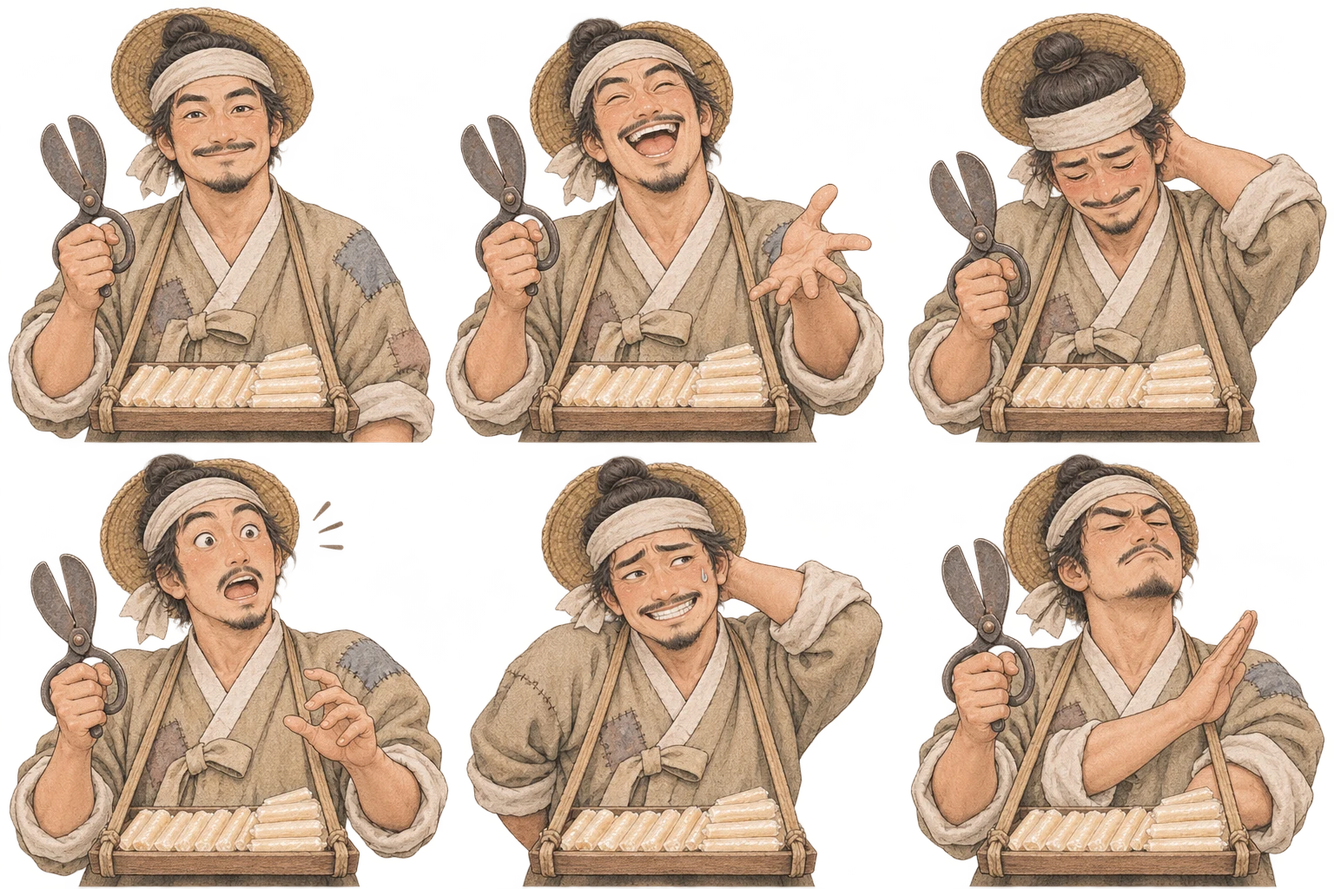
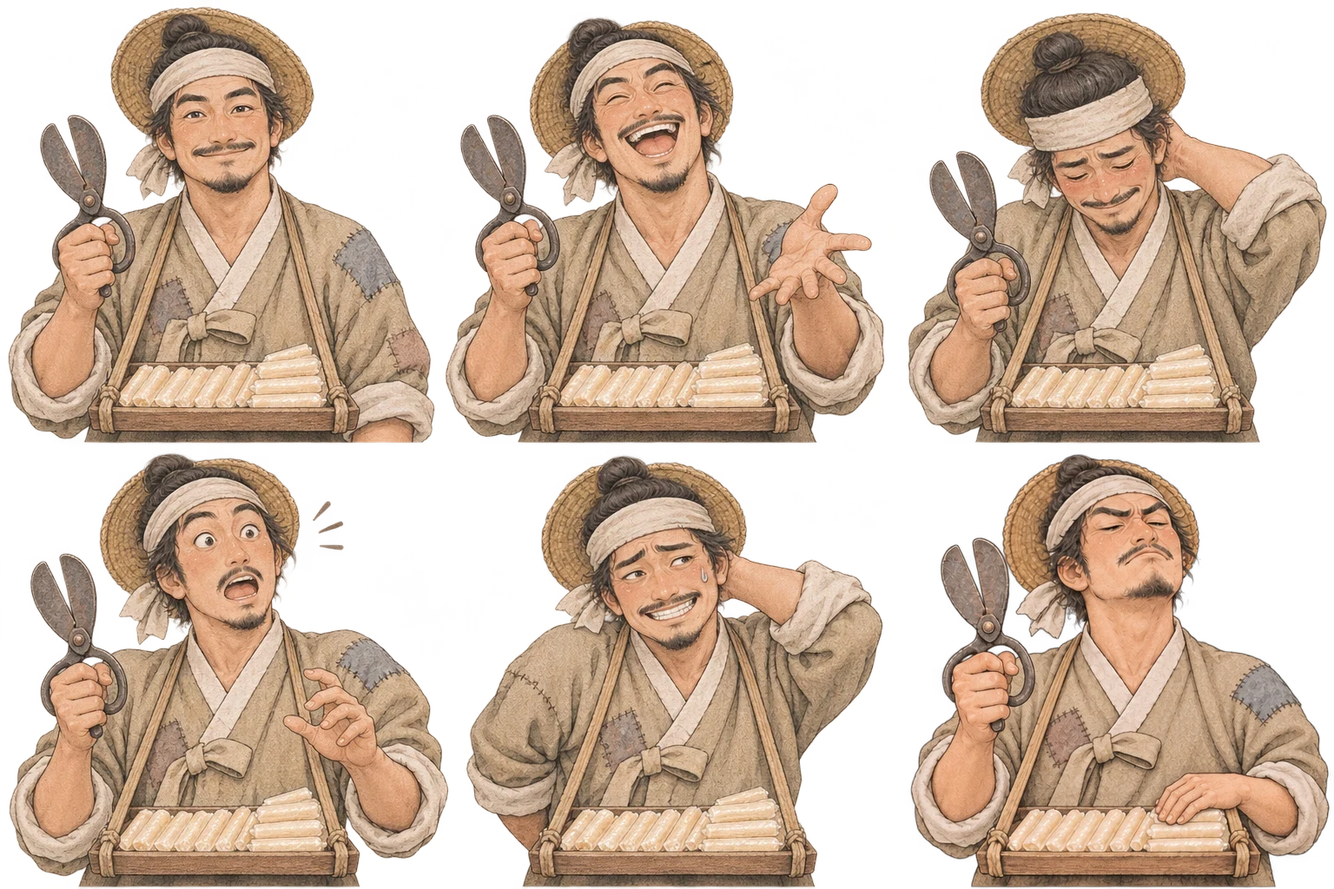
Fix Gawi stern sprite arms and encrypt teacher answer guides

Changed region(s): [[0.6875, 0.5, 1.0, 1.0]]

diff --git a/assets/review.js b/assets/review.js
@@ -4,17 +4,23 @@ const $=s=>document.querySelector(s),esc=s=>String(s??'').replace(/[&<>"']/g,c=>
 let C,backgrounds=[],mood=0,loading=false,notes=[],active='art';const cache=new Map(),noteKey='ddeokip-art-review-notes-v1';
 try{notes=JSON.parse(localStorage.getItem(noteKey)||'[]');if(!Array.isArray(notes))notes=[];}catch{notes=[];}
 const status=(s,error=false)=>{$('#status').textContent=s;$('#status').classList.toggle('error',error);};
-const art=id=>`assets/art/${id}.webp`,charfile=id=>C.art?.[id]||id;
+const art=id=>`assets/art/${id}.webp${id==='gawi'?'?v=20261112-arms':''}`,charfile=id=>C.art?.[id]||id;
 function tab(id){active=id;document.querySelectorAll('.panel').forEach(p=>p.hidden=p.id!==id);document.querySelectorAll('[data-tab]').forEach(b=>b.setAttribute('aria-pressed',String(b.dataset.tab===id)));if(id==='notes')renderNotes();}
 function fileLink(file,label='원본 크게 보기 ↗'){return `<a target="_blank" rel="noopener" href="${art(file)}">${label}</a>`;}
 function collect(){const map=new Map();const add=(id,name)=>{if(id&&!map.has(id))map.set(id,name||id);};(C.places||[]).forEach(p=>add(p.art,p.name));add(C.court||'court','법정');add(C.landing?.backdrop,'첫 화면 배경');add(C.end?.backdrop,'결말 배경');C.stages.forEach(s=>{add(s.backdrop);[...(s.lines||[]),...(s.after||[])].forEach(l=>add(l.backdrop));});return [...map].map(([id,name])=>({id,name}));}
 function gallery(){const q=$('#search').value.trim().toLowerCase();const matches=s=>s.toLowerCase().includes(q);$('#characters').innerHTML=C.portraits.filter(id=>matches(C.chars[id]+' '+charfile(id))).map(id=>`<article class="card"><button data-character="${esc(id)}" aria-label="${esc(C.chars[id])} 표정 확대"><img loading="lazy" src="${art(charfile(id))}" alt="${esc(C.chars[id])} 여섯 표정 원본"><span class="caption"><b>${esc(C.chars[id])}</b><small>${esc(charfile(id))}.webp${C.flip?.includes(id)?' · 게임에서 좌우 반전':''}</small></span></button>${fileLink(charfile(id))}</article>`).join('')||'<p class="empty">검색 결과가 없습니다.</p>';
 $('#backgrounds').innerHTML=backgrounds.filter(b=>matches(b.name+' '+b.id)).map(b=>`<article class="card"><button data-background="${esc(b.id)}" aria-label="${esc(b.name)} 배경 선택"><img loading="lazy" src="${art(b.id)}" alt="${esc(b.name)}"><span class="caption"><b>${esc(b.name)}</b><small>${esc(b.id)}.webp</small></span></button>${fileLink(b.id)}</article>`).join('')||'<p class="empty">검색 결과가 없습니다.</p>';}
 function scene(){const id=$('#character').value,bg=$('#background').value,flip=C.flip?.includes(id);$('#backdrop').src=art(bg);$('#backdrop').alt=backgrounds.find(b=>b.id===bg)?.name||bg;$('#stage').dataset.surface=$('#surface').value;$('#portrait').style.height=$('#scale').value+'%';$('#portrait').innerHTML=`<svg viewBox="0 0 512 512" role="img" aria-label="${esc(C.chars[id])} ${moods[mood]}"><g${flip?' transform="translate(512 0) scale(-1 1)"':''}><image href="${art(charfile(id))}" x="${-(mood%3)*512}" y="${-Math.floor(mood/3)*512}" width="1536" height="1024" preserveAspectRatio="none"/></g></svg>`;$('#sceneLabel').textContent=`${C.chars[id]} · ${moods[mood]}${flip?' · 좌우 반전':''}`;$('#fileinfo').textContent=`${charfile(id)}.webp / ${moods[mood]} (${mood<3?'윗줄':'아랫줄'} ${mood%3+1}번째) · 배경 ${bg}.webp`;$('#original').href=art(charfile(id));$('#bgOriginal').href=art(bg);$('#flipnote').textContent=flip?'이 인물은 게임 설정에 따라 원본을 좌우로 뒤집어 표시합니다.':'게임에서 사용하는 표정 순서로 분할했습니다.';$('#moods').innerHTML=moods.map((s,i)=>`<button data-mood="${i}" aria-pressed="${i===mood}">${i+1}. ${s}</button>`).join('');}
-function solution(){const box=document.createElement('div');box.innerHTML=C.guide||'';const details=box.querySelector('.teacher-spoilers');let html='';if(details){details.querySelector('summary')?.remove();html=details.innerHTML;}else{html='<h3>심문 정답</h3><ol>'+Object.values(C.witnesses||{}).map(w=>{const s=w.solve||{},parts=[];if(s.pair)parts.push(`증언 ${s.pair.map(i=>i+1).join(' · ')} 맞대기`);if(s.evidence)parts.push(`증언 ${(s.statements||[]).map(i=>i+1).join(' 또는 ')} + ${[].concat(s.evidence).map(k=>C.evidence[k]?.name||k).join(' 또는 ')}`);if(s.point)parts.push('그림에서 '+(s.point.spots.find(p=>p[0]===s.point.answer)?.[1]||s.point.answer)+' 선택');return `<li><b>${esc(w.title||C.chars[w.who])}</b><br>${esc(parts.join(' / '))}</li>`;}).join('')+'</ol>';const picks=C.stages.filter(s=>s.type==='pick');for(const s of picks){html+=`<h3>${esc(s.title||s.chapter)}</h3><p>${esc((s.options||[]).filter((o,i)=>s.check?s.check(i)===true:i===s.answer).map(o=>o.text||o).join(' / ')||'교사 안내와 증거를 함께 확인하세요.')}</p>`;}html+='<p>책임 저울과 판관 일기는 한 가지 정답을 고르는 단계가 아닙니다.</p>';}
-$('#solutions').innerHTML=`<h3>제${C.n}화 · ${esc(C.title)}</h3>${html}`;$('#guide').innerHTML=C.guide||'';}
+let teacherData=null,unlockGeneration=0;
+function solution(){const entry=teacherData?.[C?.n];$('#answerGate').hidden=!!entry;$('#answerContent').hidden=!entry;$('#solutions').innerHTML=entry?.solution||'';$('#guide').innerHTML=entry?.guide||'';$('#downloadAnswers').disabled=!entry;}
+function lockAnswers(){teacherData=null;unlockGeneration++;$('#teacherPassword').value='';$('#unlockStatus').textContent='';$('#guideDetails').open=false;solution();}
+async function unlockAnswers(event){event.preventDefault();const generation=++unlockGeneration,button=$('#unlockAnswers');let password=$('#teacherPassword').value;if(!password)return;button.disabled=true;$('#unlockStatus').textContent='정답 파일을 여는 중입니다…';
+try{const response=await fetch('assets/teacher-answers.enc.json?v=20261112-2',{cache:'no-store'});if(!response.ok)throw Error('load');const pack=await response.json();const bytes=s=>Uint8Array.from(atob(s),c=>c.charCodeAt(0));const keyMaterial=await crypto.subtle.importKey('raw',new TextEncoder().encode(password),'PBKDF2',false,['deriveKey']);password='';const key=await crypto.subtle.deriveKey({name:'PBKDF2',salt:bytes(pack.salt),iterations:pack.iterations,hash:'SHA-256'},keyMaterial,{name:'AES-GCM',length:256},false,['decrypt']);const plaintext=await crypto.subtle.decrypt({name:'AES-GCM',iv:bytes(pack.iv)},key,bytes(pack.data));const data=JSON.parse(new TextDecoder().decode(plaintext));if(generation!==unlockGeneration)return;teacherData=data;$('#teacherPassword').value='';$('#unlockStatus').textContent='';solution();status('교사용 정답을 열었습니다. 사용 후 다시 잠가 주세요.');
+}catch(error){if(generation===unlockGeneration){$('#unlockStatus').textContent=error.name==='OperationError'?'비밀번호가 맞지 않습니다. 다시 입력해 주세요.':'정답 파일을 열지 못했습니다. 인터넷 연결과 브라우저를 확인해 주세요.';$('#teacherPassword').value='';$('#teacherPassword').focus();}}
+finally{password='';button.disabled=false;}}
+$('#answerGate').addEventListener('submit',unlockAnswers);$('#lockAnswers').addEventListener('click',lockAnswers);window.addEventListener('pagehide',lockAnswers);
 function evidence(){const out=[];for(const [id,e]of Object.entries(C.evidence||{})){let view='';try{view=typeof e.view==='function'?e.view():`<p>${esc(e.short||e.desc||'')}</p>`;}catch{view='<p>이 증거는 게임 화면에서 확인해 주세요.</p>'; }out.push(`<article class="evidencecard"><h3>${esc(e.name||id)}</h3><p class="muted">증거 ID: ${esc(id)} · 코드로 그린 도표는 별도 이미지 파일이 아닙니다.</p>${view}<button data-evidence="${esc(id)}">증거 정보 복사</button></article>`);}$('#evidenceCards').innerHTML=out.join('');}
-async function selectEpisode(n){if(loading)return;loading=true;$('#episode').disabled=true;status('그림 목록을 불러오는 중입니다…');try{if(!cache.has(n)){await new Promise((resolve,reject)=>{const s=document.createElement('script');s.src=`episodes/ep${String(n).padStart(2,'0')}.js`;s.onload=()=>{cache.set(n,window.CASE);s.remove();resolve();};s.onerror=()=>{s.remove();reject(Error('시나리오 파일을 불러오지 못했습니다. 새로고침해 주세요.'));};document.head.append(s);});}C=cache.get(n);backgrounds=collect();mood=0;$('#character').innerHTML=C.portraits.map(id=>`<option value="${esc(id)}">${esc(C.chars[id])}</option>`).join('');$('#background').innerHTML=backgrounds.map(b=>`<option value="${esc(b.id)}">${esc(b.name)} · ${esc(b.id)}</option>`).join('');$('#background').value=C.court||backgrounds[0].id;$('#artTitle').textContent=`제${n}화 · ${C.title}`;$('#search').value='';$('#memo').value='';gallery();scene();solution();evidence();status(`인물 ${C.portraits.length}명 · 배경 ${backgrounds.length}장 · 여섯 표정 확인 가능`);history.replaceState(null,'','#episode='+n);}catch(e){status(e.message,true);}finally{loading=false;$('#episode').disabled=false;}}
+async function selectEpisode(n){if(loading)return;loading=true;$('#episode').disabled=true;status('그림 목록을 불러오는 중입니다…');try{if(!cache.has(n)){await new Promise((resolve,reject)=>{const s=document.createElement('script');s.src=`episodes/ep${String(n).padStart(2,'0')}.js?v=20261112-protected`;s.onload=()=>{cache.set(n,window.CASE);s.remove();resolve();};s.onerror=()=>{s.remove();reject(Error('시나리오 파일을 불러오지 못했습니다. 새로고침해 주세요.'));};document.head.append(s);});}C=cache.get(n);backgrounds=collect();mood=0;$('#character').innerHTML=C.portraits.map(id=>`<option value="${esc(id)}">${esc(C.chars[id])}</option>`).join('');$('#background').innerHTML=backgrounds.map(b=>`<option value="${esc(b.id)}">${esc(b.name)} · ${esc(b.id)}</option>`).join('');$('#background').value=C.court||backgrounds[0].id;$('#artTitle').textContent=`제${n}화 · ${C.title}`;$('#search').value='';$('#memo').value='';gallery();scene();solution();evidence();status(`인물 ${C.portraits.length}명 · 배경 ${backgrounds.length}장 · 여섯 표정 확인 가능`);history.replaceState(null,'','#episode='+n);}catch(e){status(e.message,true);}finally{loading=false;$('#episode').disabled=false;}}
 function ref(){return `제${C.n}화 ${C.title}\n인물: ${C.chars[$('#character').value]}\n파일: assets/art/${charfile($('#character').value)}.webp\n표정: ${moods[mood]} (${mood<3?'윗줄':'아랫줄'} ${mood%3+1}번째)${C.flip?.includes($('#character').value)?' / 게임에서 좌우 반전':''}\n배경: assets/art/${$('#background').value}.webp`;}
 async function copy(s){try{await navigator.clipboard.writeText(s);status('복사했습니다. 대화창에 붙여 넣어 주세요.');}catch{const t=document.createElement('textarea');t.value=s;document.body.append(t);t.select();const ok=document.execCommand('copy');t.remove();if(ok)status('복사했습니다.');else{download(s,'검수정보.txt');status('복사를 사용할 수 없어 텍스트 파일로 저장했습니다.');}}}
 function download(s,name,type='text/plain;charset=utf-8'){const u=URL.createObjectURL(new Blob([s],{type})),a=document.createElement('a');a.href=u;a.download=name;a.click();setTimeout(()=>URL.revokeObjectURL(u),1000);}
@@ -23,6 +29,7 @@ function renderNotes(){$('#noteCount').textContent=notes.length;$('#noteList').i
 const notesText=()=>notes.map((n,i)=>`[${i+1}] ${n.ref}\n수정 요청: ${n.text}`).join('\n\n');
 async function png(){const button=$('#png');button.disabled=true;try{const load=src=>new Promise((resolve,reject)=>{const i=new Image();i.onload=()=>resolve(i);i.onerror=()=>reject(Error('그림을 불러오지 못했습니다.'));i.src=src;});const id=$('#character').value,bg=$('#background').value,surface=$('#surface').value;const images=await Promise.all([load(art(charfile(id))),surface==='scene'?load(art(bg)):Promise.resolve(null)]);const c=document.createElement('canvas');c.width=1672;c.height=941;const x=c.getContext('2d');x.fillStyle=surface==='dark'?'#172720':'#fff';x.fillRect(0,0,c.width,c.height);if(surface==='check'){for(let y=0;y<941;y+=24)for(let a=0;a<1672;a+=24){x.fillStyle=((y/24+a/24)%2)?'#d5dbd4':'#fff';x.fillRect(a,y,24,24);}}if(images[1]){const im=images[1],r=Math.max(1672/im.width,941/im.height),w=im.width*r,h=im.height*r;x.drawImage(im,(1672-w)/2,(941-h)/2,w,h);}const im=images[0],size=941*Number($('#scale').value)/100;x.save();x.translate(836,941-size);if(C.flip?.includes(id))x.scale(-1,1);x.drawImage(im,(mood%3)*im.width/3,Math.floor(mood/3)*im.height/2,im.width/3,im.height/2,-size/2,0,size,size);x.restore();const blob=await new Promise(resolve=>c.toBlob(resolve,'image/png'));if(!blob)throw Error('PNG 저장에 실패했습니다.');download(blob,`검수_${C.n}화_${charfile(id)}_${keys[mood]}_${bg}.png`,'image/png');status('조합 그림을 PNG로 저장했습니다. 실제 게임 화면 캡처는 아닙니다.');}catch(e){status(e.message,true);}finally{button.disabled=false;}}
 $('#episode').innerHTML=(window.SERIES||[]).map(e=>`<option value="${e.n}">${e.n}화 · ${esc(e.classic)} — ${esc(e.title)}</option>`).join('');document.addEventListener('click',e=>{const b=e.target.closest('button');if(!b)return;if(b.dataset.tab)tab(b.dataset.tab);if(b.dataset.character){$('#character').value=b.dataset.character;scene();tab('scene');}if(b.dataset.background){$('#background').value=b.dataset.background;scene();tab('scene');}if(b.dataset.mood!==undefined){mood=Number(b.dataset.mood);scene();}if(b.dataset.remove!==undefined){notes.splice(Number(b.dataset.remove),1);persist();renderNotes();}if(b.dataset.evidence)copy(`제${C.n}화 ${C.title}\n증거: ${C.evidence[b.dataset.evidence].name||b.dataset.evidence}\n증거 ID: ${b.dataset.evidence}\n수정 요청: `);});
-$('#episode').onchange=()=>selectEpisode(Number($('#episode').value));$('#search').oninput=gallery;for(const id of ['character','background','scale','surface'])$('#'+id).oninput=scene;$('#copyRef').onclick=()=>copy(ref()+($('#memo').value.trim()?'\n수정 요청: '+$('#memo').value.trim():''));$('#saveNote').onclick=()=>{const text=$('#memo').value.trim();if(!text){status('수정할 부분을 메모에 적어 주세요.',true);$('#memo').focus();return;}notes.push({ref:ref(),text});const saved=persist();renderNotes();$('#memo').value='';if(saved)status('수정 메모 목록에 추가했습니다.');};$('#copyNotes').onclick=()=>notes.length?copy(notesText()):status('먼저 메모를 추가해 주세요.');$('#downloadNotes').onclick=()=>notes.length?download(notesText(),'떡잎부터무죄_수정메모.txt'):status('먼저 메모를 추가해 주세요.');$('#downloadAnswers').onclick=()=>download($('#solutions').innerText,`떡잎부터무죄_${C.n}화_정답.txt`);$('#png').onclick=png;
+$('#episode').onchange=()=>selectEpisode(Number($('#episode').value));$('#search').oninput=gallery;for(const id of ['character','background','scale','surface'])$('#'+id).oninput=scene;$('#copyRef').onclick=()=>copy(ref()+($('#memo').value.trim()?'\n수정 요청: '+$('#memo').value.trim():''));$('#saveNote').onclick=()=>{const text=$('#memo').value.trim();if(!text){status('수정할 부분을 메모에 적어 주세요.',true);$('#memo').focus();return;}notes.push({ref:ref(),text});const saved=persist();renderNotes();$('#memo').value='';if(saved)status('수정 메모 목록에 추가했습니다.');};$('#copyNotes').onclick=()=>notes.length?copy(notesText()):status('먼저 메모를 추가해 주세요.');$('#downloadNotes').onclick=()=>notes.length?download(notesText(),'떡잎부터무죄_수정메모.txt'):status('먼저 메모를 추가해 주세요.');$('#downloadAnswers').onclick=()=>teacherData&&download($('#solutions').innerText,`떡잎부터무죄_${C.n}화_정답.txt`);$('#png').onclick=png;
 document.addEventListener('error',e=>{if(e.target.tagName==='IMG')status('불러오지 못한 그림: '+e.target.getAttribute('src'),true);},true);renderNotes();const initial=Number(new URLSearchParams(location.hash.slice(1)).get('episode'))||1;$('#episode').value=initial>=1&&initial<=10?initial:1;selectEpisode(Number($('#episode').value));
 })();
+

diff --git a/review.html b/review.html
@@ -1,4 +1,4 @@
-<!doctype html><html lang="ko"><head><meta charset="utf-8"><meta name="viewport" content="width=device-width,initial-scale=1"><meta name="robots" content="noindex,nofollow"><title>그림 검수실 · 떡잎부터 무죄</title><link rel="stylesheet" href="assets/review.css?v=20261112-1"></head><body>
+<!doctype html><html lang="ko"><head><meta charset="utf-8"><meta name="viewport" content="width=device-width,initial-scale=1"><meta name="robots" content="noindex,nofollow"><title>그림 검수실 · 떡잎부터 무죄</title><link rel="stylesheet" href="assets/review.css?v=20261112-2"></head><body>
 <header><a class="brand" href="./">떡잎부터 무죄 <span>제작자 검수실</span></a><a href="./" target="_blank" rel="noopener">게임 열기 ↗</a></header>
 <main><div class="intro"><div><p class="eyebrow">ART REVIEW / 01—10</p><h1>한 장씩, 꼼꼼하게.</h1><p>플레이 없이 그림과 표정을 살펴보고, 수정할 부분을 기록하세요.</p></div><label>살펴볼 이야기<select id="episode" aria-label="화 선택"></select></label></div>
 <nav aria-label="검수 메뉴"><button data-tab="art" aria-pressed="true">그림 모아보기</button><button data-tab="scene" aria-pressed="false">표정·배경 조합</button><button data-tab="evidence" aria-pressed="false">증거 그림</button><button data-tab="answers" aria-pressed="false">정답·풀이</button><button data-tab="notes" aria-pressed="false">수정 메모 <span id="noteCount">0</span></button></nav>
@@ -6,6 +6,9 @@
 <section id="art" class="panel"><div class="sectiontop"><h2 id="artTitle">그림을 불러오는 중입니다</h2><label>그림 찾기<input id="search" type="search" placeholder="인물·장소·파일명 검색"></label></div><p class="muted">인물은 여섯 표정 원본입니다. 카드를 누르면 표정을 하나씩 확대할 수 있습니다. 안방 옹고집의 좌우 반전은 조합 화면에서 확인하세요.</p><h3>인물 표정 시트</h3><div id="characters" class="cards"></div><h3>장소와 배경</h3><div id="backgrounds" class="cards backgrounds"></div></section>
 <section id="scene" class="panel" hidden><div class="sectiontop"><div><h2>표정·배경 조합</h2><p class="muted">게임과 같은 3×2 표정 분할·좌우 반전 규칙을 사용합니다. 실제 대화창의 스크린샷은 아닙니다.</p></div><button id="png">조합 그림 PNG 저장</button></div><div class="workbench"><div class="canvas-area"><div id="stage"><img id="backdrop" alt="선택한 배경"><div id="portrait"></div><span id="sceneLabel"></span></div><div id="moods" class="moods"></div><p id="fileinfo" class="fileinfo"></p></div><aside><label>인물<select id="character"></select></label><label>배경<select id="background"></select></label><label>인물 크기 <input id="scale" type="range" min="35" max="100" value="85"></label><label>배경 표시<select id="surface"><option value="scene">장소 배경</option><option value="check">투명 체크무늬</option><option value="white">흰색</option><option value="dark">어두운색</option></select></label><p id="flipnote" class="muted"></p><div class="links"><a id="original" target="_blank" rel="noopener">인물 원본 ↗</a><a id="bgOriginal" target="_blank" rel="noopener">배경 원본 ↗</a></div><label>이 그림의 수정 메모<textarea id="memo" rows="4" placeholder="예: 아래 가운데 표정에서 모자 끝이 잘립니다."></textarea></label><button id="saveNote" class="primary">메모 목록에 추가</button><button id="copyRef">현재 그림 정보 복사</button><p class="muted">메모는 이 브라우저에만 저장됩니다. 아래 목록에서 텍스트로 내보낼 수 있습니다.</p></aside></div></section>
 <section id="evidence" class="panel" hidden><h2>증거 그림과 기록</h2><p class="muted">게임의 증거 표시 함수를 그대로 읽어 보여줍니다. 그림을 눌러 조사하는 기능은 이 화면에서 실행되지 않습니다.</p><div id="evidenceCards" class="evidencecards"></div></section>
-<section id="answers" class="panel" hidden><h2>교사용 정답·풀이</h2><p class="muted">선택한 화의 현재 게임 데이터에서 읽어옵니다. 학생용 첫 화면에는 검수실 링크를 넣지 않았습니다. 이 페이지는 비밀번호 보호 페이지는 아닙니다.</p><div id="solutions"></div><details><summary>교사·보호자 안내 전체</summary><div id="guide"></div></details><button id="downloadAnswers">이 화의 정답 TXT 저장</button></section>
+<section id="answers" class="panel" hidden><h2>교사용 정답·풀이</h2>
+<form id="answerGate" class="answer-gate"><h3>교사용 비밀번호를 입력해 주세요</h3><p>정답과 해설은 암호화되어 있습니다. 그림 검수는 비밀번호 없이 사용할 수 있습니다.</p><label for="teacherPassword">교사용 비밀번호</label><div class="unlock-row"><input id="teacherPassword" type="password" autocomplete="off" required aria-describedby="unlockStatus"><button id="unlockAnswers" type="submit" class="primary">정답 열기</button></div><p id="unlockStatus" role="status" aria-live="polite"></p></form>
+<div id="answerContent" hidden><div class="sectiontop"><p class="muted">정답을 연 상태입니다. 사용 후 다시 잠가 주세요. 새로고침하면 자동으로 잠깁니다.</p><button id="lockAnswers">다시 잠그기</button></div><div id="solutions"></div><details id="guideDetails"><summary>교사·보호자 안내 전체</summary><div id="guide"></div></details><button id="downloadAnswers">이 화의 정답 TXT 저장</button></div></section>
 <section id="notes" class="panel" hidden><div class="sectiontop"><div><h2>수정할 그림 메모</h2><p class="muted">모든 화의 메모가 함께 모입니다. 복사해서 대화창에 붙여 주세요.</p></div><div class="links"><button id="copyNotes">전체 메모 복사</button><button id="downloadNotes">TXT 저장</button></div></div><div id="noteList"></div></section>
-</main><footer>그림 검수실 · 게임 진행 기록과 판관 일기는 변경하지 않습니다.</footer><script src="assets/series.js?v=20261112-art10"></script><script src="assets/review.js?v=20261112-1"></script></body></html>
+</main><footer>그림 검수실 · 게임 진행 기록과 판관 일기는 변경하지 않습니다.</footer><script src="assets/series.js?v=20261112-art10"></script><script src="assets/review.js?v=20261112-2"></script></body></html>
+

diff --git a/assets/review.css b/assets/review.css
@@ -1,1 +1,4 @@
 :root{font-family:'Malgun Gothic',system-ui,sans-serif;color:#253b36;background:#f4f2e9;line-height:1.65}*{box-sizing:border-box}body{margin:0}button,input,select,textarea{font:inherit}button,a,select{touch-action:manipulation}button,select,input,textarea{border:1px solid #bec8bd;border-radius:8px;background:#fffef8;color:inherit;padding:10px 13px}button{cursor:pointer}button:hover{background:#e2e9df}button:focus-visible,a:focus-visible,select:focus-visible{outline:3px solid #a66c32;outline-offset:3px}button[aria-pressed=true],.primary{background:#31574a;color:white;border-color:#31574a}a{color:#31574a;text-underline-offset:4px}header{padding:20px max(5vw,20px);display:flex;align-items:center;justify-content:space-between;border-bottom:1px solid #d3d8cc;gap:16px}.brand{font-weight:800;text-decoration:none;font-size:20px}.brand span{font-size:12px;display:inline-block;border:1px solid #b8c6b9;border-radius:20px;padding:3px 10px;margin-left:10px}main{max-width:1400px;margin:auto;padding:36px 5vw}.intro{display:flex;align-items:center;justify-content:space-between;gap:24px}h1{font-size:clamp(28px,4vw,44px);letter-spacing:-2px;margin:0 0 10px}h2{font-size:23px;margin:0}h3{margin-top:28px}.eyebrow{font-size:11px;letter-spacing:3px;color:#8a6b42;font-weight:800}.intro p:last-child,.muted{font-size:14px;color:#64736a}.intro label{min-width:270px}label{display:block;font-size:13px;font-weight:600}label select,label input:not([type=range]),label textarea{display:block;width:100%;margin-top:7px}nav{display:flex;gap:8px;flex-wrap:wrap;margin:28px 0 10px}nav button{border-radius:30px}#status{min-height:1.7em;font-size:14px;color:#815723;margin:10px 0}.panel[hidden]{display:none}.sectiontop{display:flex;align-items:center;justify-content:space-between;gap:20px;margin-bottom:14px}.cards{display:grid;grid-template-columns:repeat(3,minmax(0,1fr));gap:18px}.card{background:#fffef9;border:1px solid #d9dece;border-radius:13px;overflow:hidden;min-width:0}.card button{display:block;padding:0;width:100%;border:0;border-radius:0;text-align:left;background:none}.card img{display:block;width:100%;aspect-ratio:3/2;object-fit:contain;background-color:#e8e8e1;background-image:linear-gradient(45deg,#d8ddd4 25%,transparent 25%),linear-gradient(-45deg,#d8ddd4 25%,transparent 25%),linear-gradient(45deg,transparent 75%,#d8ddd4 75%),linear-gradient(-45deg,transparent 75%,#d8ddd4 75%);background-size:20px 20px;background-position:0 0,0 10px,10px -10px,-10px 0}.backgrounds img{aspect-ratio:16/9;object-fit:cover}.card .caption{padding:15px;display:block}.caption b{display:block}.caption small,.fileinfo{color:#64736a;overflow-wrap:anywhere}.card a{display:inline-block;margin:0 15px 13px;font-size:12px}.workbench{display:grid;grid-template-columns:minmax(0,1fr) 290px;gap:24px}.canvas-area{min-width:0}#stage{position:relative;aspect-ratio:16/9;background:#dce0d7;border-radius:14px;overflow:hidden;isolation:isolate}#backdrop{width:100%;height:100%;object-fit:cover;position:absolute;inset:0}#portrait{position:absolute;bottom:0;height:85%;width:100%;display:flex;justify-content:center}#portrait svg{height:100%;max-width:100%;aspect-ratio:1;overflow:hidden}#portrait g{clip-path:polygon(0% 0%,100% 0%,100% 100%,0% 100%) view-box}#sceneLabel{position:absolute;top:12px;left:12px;background:#163c30d9;color:#fff;padding:5px 10px;border-radius:6px;font-size:12px}#stage[data-surface=check]{background-color:#fff;background-image:conic-gradient(#d5dbd4 25%,transparent 0 50%,#d5dbd4 0 75%,transparent 0);background-size:24px 24px}#stage[data-surface=white]{background:#fff}#stage[data-surface=dark]{background:#172720}#stage:not([data-surface=scene]) #backdrop{display:none}.moods{display:grid;grid-template-columns:repeat(3,1fr);gap:8px;margin-top:15px}.moods button{font-size:14px}aside{background:#e9eddf;padding:18px;border-radius:14px}aside label{margin-bottom:15px}aside button{width:100%;margin-top:8px}.links{display:flex;flex-wrap:wrap;gap:12px}.links a{font-size:13px}.evidencecards{display:grid;grid-template-columns:repeat(2,minmax(0,1fr));gap:20px}.evidencecard,details,#solutions,.note{background:#fffef8;border:1px solid #d7ddce;padding:22px;border-radius:12px;margin-top:16px;overflow-wrap:anywhere}.evidencecard{overflow:auto}.evidencecard svg{width:100%;max-height:450px}.evidencecard table{border-collapse:collapse;width:100%}td,th{border:1px solid #ccd3c5;padding:7px}.evidencecard h3{margin-top:0}summary{cursor:pointer;font-weight:bold}#solutions ol{padding-left:24px}#solutions li{margin:14px 0}.note pre{white-space:pre-wrap;font:inherit}.note button{font-size:12px}footer{text-align:center;border-top:1px solid #d3d8cc;padding:22px;color:#69756b;font-size:12px}.error{color:#a03724!important}textarea{resize:vertical}.empty{padding:35px;text-align:center;color:#64736a}@media(max-width:1000px){.cards{grid-template-columns:repeat(2,minmax(0,1fr))}.workbench{grid-template-columns:1fr}}@media(max-width:600px){header{align-items:flex-start}.brand span{display:block;margin:5px 0 0;width:max-content}header>a:last-child{font-size:12px;white-space:nowrap}main{padding:24px 16px}.intro,.sectiontop{display:block}.intro label{min-width:0;margin-top:20px}.sectiontop label{margin-top:15px}nav{gap:6px}nav button{padding:8px 12px;font-size:13px}.cards,.evidencecards{grid-template-columns:1fr}#sceneLabel{font-size:10px;top:7px;left:7px}.moods button{padding:9px 5px;font-size:12px}.sectiontop>button{margin-top:12px}}@media print{header,nav,footer,button,.intro,#status{display:none}main{padding:0}.panel[hidden]{display:none!important}details{break-inside:avoid}#solutions{border:0}}
+
+
+.answer-gate{max-width:640px;padding:24px;border:1px solid #ccd3c5;border-radius:16px;background:#fffdf7}.answer-gate h3{margin-top:0}.unlock-row{display:flex;gap:10px;align-items:end}.unlock-row input{min-width:0;flex:1}.unlock-row button{white-space:nowrap}#unlockStatus{min-height:1.6em;color:#8c392a}#answerContent[hidden],#answerGate[hidden]{display:none!important}@media(max-width:600px){.answer-gate{padding:18px}.unlock-row{display:block}.unlock-row button{margin-top:12px;width:100%}}

diff --git a/episodes/ep10.js b/episodes/ep10.js
@@ -394,6 +394,6 @@ window.CASE = (() => {
       text: '열 번의 재판, 열 번의 무죄.<br>섞인 것은 나누고, 먼 길은 셈하고, 달과 그림자에게 물었습니다. 나바름의 다음 의뢰는 어디에서 올까요?',
       badges: ['번짐 실험가', '길 셈 고수', '열 사건 해결']
     },
-    guide: `<h3>제10화 · 교사·보호자 안내</h3><p><b>춘향전 × 색을 나누는 번짐 실험 × 법과 절차</b><br>초등 6학년부터, 약 50–60분을 예상한 마지막 이야기입니다. <b>어려운 단계</b>입니다. 1화가 춘향전의 인물로 꾸민 새 사건이었다면, 10화는 춘향전의 본 사건을 다룹니다. 원작의 “수청” 요구는 “관아에 들어와 사또의 시중을 들라는 명”으로 바꾸었고, 옥에서의 고초는 그리지 않았습니다. 초점은 “높은 자리의 힘을 법과 절차 밖에서 쓴 것”에 있습니다.</p><p><b>원작과 다른 점</b><br>춘향의 신분은 판본마다 다르게 그려집니다. 이 게임은 어느 쪽이 옳다고 정하지 않고, “명부의 이름이 언제, 무엇으로 쓰였는가”를 따집니다. 명부에 이름을 뒤늦게 써넣었다는 것, 판결문을 뒤에 꾸몄다는 것, 이몽룡이 재판에서 물러나 이웃 고을 원님이 맡는다는 것은 이 게임에서 새로 꾸민 것입니다. 사령 번쇠와 지난 화의 인물들도 원작에는 없습니다.</p><p><b>함께 생각할 질문</b></p><ol><li>이몽룡은 왜 스스로 재판에서 물러났을까요?</li><li>이방과 사령은 시켜서 한 일인데도 책임이 있을까요? 3화의 팥쥐, 7화의 일꾼들과 견주어 보세요.</li><li>“내 명이 곧 법이다”라는 말은 왜 옳지 않을까요?</li></ol><details class="teacher-spoilers"><summary>교사용 진행·정답 보기</summary><p>사령: 증언 2와 4 맞대기, 또는 증언 2나 5 + 춘향의 답글.<br>번짐 실험: 염색집의 검정 물 / 다른 이름들과 다른 것으로 썼다.<br>이방: 증언 3 + 번짐 실험 기록, 또는 증언 4 + 염색집 장부.<br>길 셈: 3시간, 한 시간에 50리, 말을 타도 올 수 없었다.<br>사또 첫 번째: 증언 3 또는 4 + 길 셈 기록이나 감영 기록.<br>사또 두 번째: 증언 2 또는 3 + <b>번짐 실험 기록과 염색집 장부를 함께</b>.<br>사또 세 번째: 증언 1 + 춘향의 답글이나 사령의 말 / 증언 2 + 옥 일지 / 증언 3 + 이방의 말. 어느 것이든 하나면 됩니다.<br>진범: 변학도. 근거는 이방의 말, 사령의 말, 옥 일지, 판결문 가운데 셋.<br>쓰이지 않는 증거: 옥가락지.</p></details><p><b>과학 표현의 범위</b><br>섞여 있는 색소가 물을 따라 이동하는 빠르기가 달라 나뉘는 현상(크로마토그래피)을 “번짐 실험”으로 다룹니다. 먹은 물에 녹지 않는 그을음 알갱이라 잘 번지지 않고, 수용성 색소를 섞은 검정은 색이 갈라집니다. 교실에서는 검정 수성 사인펜과 거름종이로 해 볼 수 있습니다. 조선 시대 염색집에서 이런 검정 물을 팔았다는 것은 이야기 속 설정입니다. 길 셈은 7화의 속력 계산을 다시 쓴 것입니다.</p><p><b>법과 역사 표현의 범위</b><br>조선 시대에도 수령이 함부로 벌을 주는 것을 막으려는 법이 있었지만, 이 게임의 재판 절차는 아이들이 이해하기 쉽게 꾸민 것입니다. 수업에 쓰실 때는 “옛날에는 꼭 이랬다”가 아니라 “이야기 속 재판”이라고 알려 주세요.</p><p class="muted">로그인 없이 사용하며 진행과 일기는 브라우저 안에만 저장됩니다. 화마다 진행 기록은 별개입니다.</p>`
+    guide: `<h3>제10화 · 교사·보호자 안내</h3><p>증언과 증거를 비교하며 사건을 해결하는 어린이 법정 추리 게임입니다.</p><p>아이가 답을 고른 까닭을 묻고, 서로 다른 증거가 같은 결론을 가리키는지 함께 살펴보세요. 책임 저울과 판관 일기에서는 자신의 생각을 근거와 함께 표현하도록 도와주세요.</p><p>사건의 해설과 교사용 정답은 교사용 검수실에서 비밀번호를 입력한 뒤 확인할 수 있습니다.</p><p class="muted">로그인이나 개인정보 입력 없이 사용하며, 진행 상황과 판관 일기는 이 브라우저에 저장됩니다. 화마다 진행 기록은 별개입니다.</p>`
   };
 })();

diff --git a/episodes/ep08.js b/episodes/ep08.js
@@ -404,6 +404,6 @@ window.CASE = (() => {
       text: '다음 날 장터에서 허허 도인은 촛불과 꽃물의 까닭을 제 손으로 보여 주었습니다.<br>전우치는 빙긋 웃더니, 부채를 한 번 부치고는 온데간데없이 사라졌습니다. 그건… 다음에 따져 보기로 해요.',
       badges: ['촛불 실험가', '꽃물 감정사', '진범 지목']
     },
-    guide: `<h3>제8화 · 교사·보호자 안내</h3><p><b>전우치전 × 연소와 지시약 × 다른 설명 지워 나가기</b><br>초등 5학년부터, 약 40–50분을 예상한 이야기입니다. 여기부터는 <b>어려운 단계</b>입니다. 기력 엽전이 세 닢이고, 힌트는 두 단계뿐이며, 같은 증인이 변명을 바꿀 때마다 세 번 이어서 깨뜨려야 합니다. 증거 두 개를 함께 내밀어야 풀리는 심문이 한 번 있고, 마지막에는 범인을 직접 짚고 근거를 골라야 합니다. 전우치는 고전 소설 전우치전의 주인공이고, 허허 도인, 떡 할멈, 덕쇠, 초롱이는 이 게임을 위해 만든 인물입니다.</p><p><b>함께 생각할 질문</b></p><ol><li>덮개를 씌운 초는 왜 꺼졌을까요? 어떻게 하면 꺼지지 않을까요?</li><li>“설명할 수 없으니 도술이다”라는 말은 왜 옳지 않을까요?</li><li>“어떻게 된 일인지” 알려 주는 증거와 “누가 했는지” 알려 주는 증거는 어떻게 다를까요?</li></ol><details class="teacher-spoilers"><summary>교사용 진행·정답 보기</summary><p>떡 할멈: 증언 4 + 꺼진 초와 덮개 (초가 절반 넘게 남음).<br>촛불 실험: B와 C (덮개 크기), B와 D (구멍과 틈).<br>덕쇠: 증언 2와 3 맞대기, 또는 증언 4나 5 + 색이 변한 액막이 글, 또는 증언 5 + 문지기 일지.<br>꽃물 실험: 식초와 매실즙 / 식초.<br>도인 첫 번째: 증언 3 또는 4 + 촛불 실험 기록.<br>도인 두 번째: 증언 3 또는 4 + <b>도인의 두 덮개와 촛불 실험 기록을 함께</b>.<br>도인 세 번째: 증언 1 + 염색집 장부나 도인의 봇짐 / 증언 2 + 주막 장부 / 증언 3 + 도인의 봇짐 / 증언 4 + 꽃물 실험 기록이나 도인의 봇짐. 어느 것이든 하나면 됩니다.<br>진범: 허허 도인. 근거는 도인의 두 덮개, 염색집 장부, 주막 장부, 도인의 봇짐 가운데 셋.</p></details><p><b>과학 표현의 범위</b><br>물질이 타려면 탈 물질, 산소, 발화점 이상의 온도가 필요하다는 것과, 지시약이 산성과 염기성에서 다른 색을 띤다는 것을 다룹니다. 덮개 안의 초가 타는 시간은 덮개의 크기, 초의 굵기에 따라 크게 달라지며, 여기 나온 “열을 셀 동안”, “서른을 셀 동안”은 이야기 속 관찰입니다. 나팔꽃 꽃물은 실제로 산성에서 붉은빛, 염기성에서 푸른빛을 띠지만 색의 정도는 꽃과 농도에 따라 다릅니다. 교실에서는 자주색 양배추 물로 같은 실험을 할 수 있습니다. 잿물과 석회물은 피부에 닿으면 좋지 않으니 실제 실험에서는 식초와 베이킹 소다 물 정도를 쓰는 것이 안전합니다.</p><p><b>도술을 다루는 방식</b><br>이 화는 “전우치의 도술이 진짜인가”를 가리지 않습니다. 재판이 가리는 것은 “이번 일이 도술로만 설명되는가”입니다. 결말에서 전우치가 사라지는 장면은 원작에 대한 농담으로 남겨 두었습니다.</p><p class="muted">로그인 없이 사용하며 진행과 일기는 브라우저 안에만 저장됩니다. 화마다 진행 기록은 별개입니다.</p>`
+    guide: `<h3>제8화 · 교사·보호자 안내</h3><p>증언과 증거를 비교하며 사건을 해결하는 어린이 법정 추리 게임입니다.</p><p>아이가 답을 고른 까닭을 묻고, 서로 다른 증거가 같은 결론을 가리키는지 함께 살펴보세요. 책임 저울과 판관 일기에서는 자신의 생각을 근거와 함께 표현하도록 도와주세요.</p><p>사건의 해설과 교사용 정답은 교사용 검수실에서 비밀번호를 입력한 뒤 확인할 수 있습니다.</p><p class="muted">로그인이나 개인정보 입력 없이 사용하며, 진행 상황과 판관 일기는 이 브라우저에 저장됩니다. 화마다 진행 기록은 별개입니다.</p>`
   };
 })();

diff --git a/episodes/ep09.js b/episodes/ep09.js
@@ -448,6 +448,6 @@ window.CASE = (() => {
       text: '다음 날 밤, 까치와 까마귀가 일곱 가닥 밧줄로 다리를 다시 놓았습니다.<br>나바름이 눈을 떠 보니 창밖에는 반달이 떠 있고, 머리맡에는 까치 깃털 하나가 놓여 있었습니다.',
       badges: ['달 관측가', '별 길잡이', '진범 지목']
     },
-    guide: `<h3>제9화 · 교사·보호자 안내</h3><p><b>견우직녀 × 달의 모양 변화와 방향 찾기 × 본 사람의 말 확인하기</b><br>초등 6학년부터, 약 45–55분을 예상한 이야기입니다. <b>어려운 단계</b>입니다. 기력 엽전이 세 닢이고, 힌트는 두 단계뿐이며, 같은 증인이 변명을 바꿀 때마다 세 번 이어서 깨뜨려야 합니다. 견우와 직녀, 오작교를 놓는 까치와 까마귀는 옛이야기에서 왔고, 북두 판관, 깍 대장, 까악 서기, 샛별이와 사건은 이 게임을 위해 만들었습니다. 나바름이 꿈에서 하늘 관아에 불려 간 것으로 꾸몄습니다.</p><p><b>함께 생각할 질문</b></p><ol><li>칠석날 밤의 달은 왜 언제나 반달 무렵일까요?</li><li>견우는 왜 보지 못한 것을 보았다고 말했을까요?</li><li>오늘 밤 달은 어떤 모양일까요? 언제 질까요?</li></ol><details class="teacher-spoilers"><summary>교사용 진행·정답 보기</summary><p>직녀: 증언 3 + 끊어진 밧줄 (세 가닥).<br>사라진 가닥: 7 − 3 = 4가닥.<br>견우: 증언 3과 5 맞대기 (캄캄했다 / 달빛에 보았다).<br>달 기록: 7일 오른쪽이 밝은 반달, 15일 보름달, 22일 왼쪽이 밝은 반달.<br>서기 첫 번째: 증언 4 + 달 모양 기록.<br>하늘 읽기: 별 나, 동쪽, 한밤중, 달이 져서 캄캄했다.<br>서기 두 번째: 증언 3 또는 4 + <b>달 모양 기록과 달이 지나는 길을 함께</b>.<br>서기 세 번째: 증언 1 + 둥지에서 나온 것 / 증언 2 + 둥지에서 나온 것이나 직녀의 베틀 기록 / 증언 3 + 계수나무에서 본 하늘이나 견우가 들은 소리 / 증언 4 + 견우가 들은 소리. 어느 것이든 하나면 됩니다.<br>진범: 까악 서기. 근거는 밧줄 창고 장부, 둥지에서 나온 것, 직녀의 베틀 기록, 견우가 들은 소리, 계수나무에서 본 하늘 가운데 셋.<br>쓰이지 않는 증거: 말뚝과 깃털.</p></details><p><b>과학 표현의 범위</b><br>달의 모양이 약 한 달을 주기로 변한다는 것, 음력 날짜와 달의 모양의 관계, 상현달과 하현달의 구별, 북두칠성으로 북극성을 찾아 방향을 아는 방법을 다룹니다. 달이 뜨고 지는 때는 “초저녁, 한밤중, 새벽”으로 크게 나누었습니다. 실제로 상현달은 한낮 무렵에 떠서 자정 무렵에 지지만, 정확한 시각은 날짜와 계절, 장소에 따라 달라집니다. 까마귀가 반짝이는 것을 모은다는 것은 옛이야기 속 설정입니다.</p><p><b>이야기를 다루는 방식</b><br>다리가 끊어질 때 새들은 날아올랐고 견우와 직녀도 각자의 강가로 돌아가 아무도 다치지 않은 것으로 그렸습니다. 까악 서기는 은실을 돌려주고 밧줄을 다시 꼬는 일을 돕습니다.</p><p class="muted">로그인 없이 사용하며 진행과 일기는 브라우저 안에만 저장됩니다. 화마다 진행 기록은 별개입니다.</p>`
+    guide: `<h3>제9화 · 교사·보호자 안내</h3><p>증언과 증거를 비교하며 사건을 해결하는 어린이 법정 추리 게임입니다.</p><p>아이가 답을 고른 까닭을 묻고, 서로 다른 증거가 같은 결론을 가리키는지 함께 살펴보세요. 책임 저울과 판관 일기에서는 자신의 생각을 근거와 함께 표현하도록 도와주세요.</p><p>사건의 해설과 교사용 정답은 교사용 검수실에서 비밀번호를 입력한 뒤 확인할 수 있습니다.</p><p class="muted">로그인이나 개인정보 입력 없이 사용하며, 진행 상황과 판관 일기는 이 브라우저에 저장됩니다. 화마다 진행 기록은 별개입니다.</p>`
   };
 })();

diff --git a/episodes/ep03.js b/episodes/ep03.js
@@ -385,6 +385,6 @@ window.CASE = (() => {
       text: '오씨 부인은 콩쥐에게 사과하고, 팥쥐와 함께 곳간의 쌀을 체로 쳤습니다.<br>다시 지은 잔치 밥에서는 고소한 냄새만 났습니다.',
       badges: ['분리 실험가', '무게 수사관', '모순 사냥꾼']
     },
-    guide: `<h3>제3화 · 교사·보호자 안내</h3><p><b>콩쥐팥쥐전 × 혼합물의 분리 × 말과 증거 견주기</b><br>초등 4학년부터, 약 30–40분을 예상한 이야기입니다. 콩쥐팥쥐전의 콩쥐, 팥쥐, 새어머니, 콩쥐를 돕는 두꺼비를 바탕으로 새로 꾸민 사건입니다. 새어머니의 성은 이 게임에서 새로 붙였습니다. 무쇠 아재와 고을 원님은 이 게임을 위해 만든 인물입니다. 1·2화보다 한 단계 어렵습니다. 쓰이지 않는 증거가 섞여 있고, 증거 없이 두 증언을 맞대어야 풀리는 심문이 있습니다.</p><p><b>함께 생각할 질문</b></p><ol><li>쌀, 모래, 쇳가루, 숯을 나눌 때 어떤 성질을 이용했나요? 순서를 바꾸어도 될까요?</li><li>팥쥐는 시켜서 거짓말을 했습니다. 팥쥐에게도 책임이 있을까요?</li><li>무쇠 아재는 왜 사실을 숨겼을까요? 나라면 어떻게 했을까요?</li></ol><details class="teacher-spoilers"><summary>교사용 진행·정답 보기</summary><p>팥쥐: 증언 2 또는 3 + 자루 속 관찰 그림 (쌀알이 보송보송함).<br>분리 실험: 체(쌀) → 지남철(쇳가루) → 물(숯). 쌀을 먼저 고른 뒤라면 순서는 바꾸어도 됩니다.<br>흙의 고향: 대장간 마당.<br>오씨 부인 첫 심문: 증언 4 + 관아 접수 기록 (23근).<br>늘어난 무게: 23 − 20 = 3근.<br>무쇠 아재: 증언 3과 4를 맞대기.<br>오씨 부인 마지막 심문: 증언 3 + 광 자물쇠와 열쇠.<br>진짜 까닭: 네 번째 보기.<br>쓰이지 않는 증거: 밥그릇에서 나온 것.</p></details><p><b>과학 표현의 범위</b><br>알갱이의 크기(체), 자석에 붙는 성질(지남철), 물에 뜨고 가라앉는 성질을 이용한 혼합물의 분리를 다룹니다. 이야기 속 냇가 모래에는 자석에 붙는 것이 없다고 설정했지만, 실제 강모래에는 자석에 붙는 사철이 섞여 있기도 합니다. 숯도 물을 오래 머금으면 가라앉을 수 있습니다. 그래서 이야기에서는 한 가지 성질이 아니라 알갱이 모양, 쇳가루, 숯, 왕겨를 함께 견주어 판단합니다. 무게와 쌀값은 이야기 속 수치입니다.</p><p><b>인물을 다루는 방식</b><br>원작의 설정을 따라 새어머니가 잘못을 저지르지만, 이야기의 초점은 가족 관계가 아니라 “무게를 속이고 남에게 떠넘긴 행동”에 있습니다. 오씨 부인은 스스로 사실을 말하고 사과하며, 벌도 바로잡는 일로 한정했습니다.</p><p class="muted">로그인 없이 사용하며 진행과 일기는 브라우저 안에만 저장됩니다. 화마다 진행 기록은 별개입니다.</p>`
+    guide: `<h3>제3화 · 교사·보호자 안내</h3><p>증언과 증거를 비교하며 사건을 해결하는 어린이 법정 추리 게임입니다.</p><p>아이가 답을 고른 까닭을 묻고, 서로 다른 증거가 같은 결론을 가리키는지 함께 살펴보세요. 책임 저울과 판관 일기에서는 자신의 생각을 근거와 함께 표현하도록 도와주세요.</p><p>사건의 해설과 교사용 정답은 교사용 검수실에서 비밀번호를 입력한 뒤 확인할 수 있습니다.</p><p class="muted">로그인이나 개인정보 입력 없이 사용하며, 진행 상황과 판관 일기는 이 브라우저에 저장됩니다. 화마다 진행 기록은 별개입니다.</p>`
   };
 })();

diff --git a/episodes/ep06.js b/episodes/ep06.js
@@ -382,6 +382,6 @@ window.CASE = (() => {
       text: '옹고집은 제 손으로 곳간 문을 열고, 이웃들에게 쌀을 나누었습니다.<br>먹실은 웃는 옹고집의 초상화를 새로 그렸습니다.',
       badges: ['거울 감정사', '초상화 수사관', '모순 사냥꾼']
     },
-    guide: `<h3>제6화 · 교사·보호자 안내</h3><p><b>옹고집전 × 거울과 빛의 반사 × 미운 사람도 공정하게</b><br>초등 4학년부터, 약 35–45분을 예상한 이야기입니다. 옹고집전에는 진짜 옹고집과 가짜 옹고집이 관아에서 다투는 송사가 실제로 나옵니다. 이 게임은 그 장면을 바탕으로, 가짜가 “거울에 비친 모습을 본떠” 만들어졌다는 설정을 새로 더했습니다. 먹실은 이 게임을 위해 만든 인물입니다. 화면에서 안방 옹고집은 쫓겨난 옹고집의 그림을 좌우로 뒤집어 보여 줍니다.</p><p><b>함께 생각할 질문</b></p><ol><li>거울에 비친 모습은 실제와 무엇이 다를까요? 오른손을 들고 거울을 보면 어떻게 보일까요?</li><li>식구들은 왜 가짜 옹고집을 더 반겼을까요? 그렇다고 가짜를 진짜라고 해도 될까요?</li><li>도사는 좋은 뜻으로 한 일입니다. 그래도 잘못이라고 할 수 있을까요?</li></ol><details class="teacher-spoilers"><summary>교사용 진행·정답 보기</summary><p>초상화 견주기: 세 군데 모두 쫓겨난 옹고집. 거울에 비춘 초상화와 같은 사람은 안방 옹고집.<br>옹고집의 아내: 증언 3 + 견주기 기록.<br>안방 옹고집 첫 심문: 증언 2, 3, 4 가운데 하나 + 사랑방 살핀 그림.<br>두 사람의 답: 둘째, 셋째, 넷째 줄. 까닭은 “거울에 비친 모습으로 알았다”.<br>삿갓 도사: 증언 2와 3을 맞대기. 또는 증언 2 + 창밖을 살핀 기록.<br>안방 옹고집 마지막 심문: 증언 3 또는 4 + 진흙 마당의 발자국.<br>진짜 까닭: 네 번째 보기.<br>쓰이지 않는 증거: 곳간 장부.</p></details><p><b>과학 표현의 범위</b><br>거울에 비친 물체는 좌우가 바뀌어 보인다는 것을 다룹니다. 이 화에서는 좌우를 모두 “마주 보았을 때”를 기준으로 적어, 보는 사람과 본인의 좌우가 헷갈리지 않게 했습니다. 실제 거울과 글자 카드로 직접 비추어 보는 활동과 이어서 볼 수 있습니다. 볏짚 사람이 가볍다는 것은 같은 부피라도 물질에 따라 무게가 다르다는 점과 이어집니다.</p><p><b>주제를 다루는 방식</b><br>옹고집은 호감이 가지 않는 인물로 그렸습니다. 그래도 재판은 “누가 더 좋은 사람인가”가 아니라 “누가 진짜인가”만 가립니다. 판결 뒤에 옹고집의 인색함과 도사의 속임을 각각 따로 짚습니다.</p><p class="muted">로그인 없이 사용하며 진행과 일기는 브라우저 안에만 저장됩니다. 화마다 진행 기록은 별개입니다.</p>`
+    guide: `<h3>제6화 · 교사·보호자 안내</h3><p>증언과 증거를 비교하며 사건을 해결하는 어린이 법정 추리 게임입니다.</p><p>아이가 답을 고른 까닭을 묻고, 서로 다른 증거가 같은 결론을 가리키는지 함께 살펴보세요. 책임 저울과 판관 일기에서는 자신의 생각을 근거와 함께 표현하도록 도와주세요.</p><p>사건의 해설과 교사용 정답은 교사용 검수실에서 비밀번호를 입력한 뒤 확인할 수 있습니다.</p><p class="muted">로그인이나 개인정보 입력 없이 사용하며, 진행 상황과 판관 일기는 이 브라우저에 저장됩니다. 화마다 진행 기록은 별개입니다.</p>`
   };
 })();

diff --git a/episodes/ep05.js b/episodes/ep05.js
@@ -332,6 +332,6 @@ window.CASE = (() => {
       text: '공양미 세 섬이 곳간으로 돌아왔습니다.<br>해 질 녘, 심청네 마당에는 감나무 쪽으로 긴 그림자가 드리웠습니다.',
       badges: ['그림자 관측가', '시간표 수사관', '모순 사냥꾼']
     },
-    guide: `<h3>제5화 · 교사·보호자 안내</h3><p><b>심청전 × 그림자와 해의 위치 × 언제, 어디에 있었나</b><br>초등 4학년부터, 약 35–45분을 예상한 이야기입니다. 심청전의 심청, 심 봉사, 귀덕 어멈, 뺑덕 어멈을 바탕으로 새로 꾸민 사건입니다. 가위 아재는 이 게임을 위해 만든 인물입니다. 인당수 이야기는 다루지 않고, 공양미는 마을 사람들이 함께 모은 것으로 바꾸었습니다. 뺑덕 어멈은 원작에서도 심 봉사의 살림을 축내는 인물입니다.</p><p><b>함께 생각할 질문</b></p><ol><li>한낮의 그림자는 왜 짧을까요? 해 질 녘의 그림자는 어느 쪽으로 생길까요?</li><li>뺑덕 어멈은 왜 귀덕 어멈을 골라 뒤집어씌웠을까요?</li><li>심 봉사는 앞을 보지 못하지만 중요한 증언을 했습니다. 무엇으로 때와 일을 알았을까요?</li></ol><details class="teacher-spoilers"><summary>교사용 진행·정답 보기</summary><p>그림자 실험: 한낮 → 이른 아침 → 해 질 녘.<br>뺑덕 어멈 첫 심문: 증언 2와 3을 맞대기. 또는 증언 3 + 그림자 기록, 증언 2 + 떡집 외상 장부.<br>누가 언제 어디에: 귀덕 어멈 한낮 심청네 집, 해 질 녘 몽은사. 뺑덕 어멈 한낮 장터, 해 질 녘 심청네 집.<br>뺑덕 어멈 두 번째 심문: 증언 2와 3을 맞대기. 또는 증언 3 + 마당 그림이나 그림자 기록.<br>가위 아재: 증언 3과 4를 맞대기. 또는 증언 4 + 그림자 기록, 증언 5 + 심 봉사가 들은 소리.<br>뺑덕 어멈 마지막 심문: 증언 3 또는 4 + 떡집 외상 장부.<br>진짜 까닭: 네 번째 보기.<br>심문에서 쓰이지 않는 증거: 수레바퀴 자국.</p></details><p><b>과학 표현의 범위</b><br>그림자는 해의 반대쪽에 생기고, 해가 높이 뜬 한낮에 가장 짧으며 아침과 저녁에 길다는 것을 다룹니다. 그림자의 정확한 길이와 방향은 계절과 위도에 따라 달라집니다. 이야기에서는 “아침에는 서쪽, 한낮에는 북쪽, 저녁에는 동쪽”으로 단순하게 나타냈습니다. 운동장에서 막대의 그림자를 시간마다 표시해 보는 활동과 이어서 볼 수 있습니다.</p><p><b>인물을 다루는 방식</b><br>심 봉사는 도움을 받기만 하는 인물이 아니라, 소리와 볕으로 때를 기억하는 믿을 만한 증인으로 그렸습니다. 그의 증언은 다른 증거와 맞아떨어져 사건을 푸는 열쇠가 됩니다.</p><p class="muted">로그인 없이 사용하며 진행과 일기는 브라우저 안에만 저장됩니다. 화마다 진행 기록은 별개입니다.</p>`
+    guide: `<h3>제5화 · 교사·보호자 안내</h3><p>증언과 증거를 비교하며 사건을 해결하는 어린이 법정 추리 게임입니다.</p><p>아이가 답을 고른 까닭을 묻고, 서로 다른 증거가 같은 결론을 가리키는지 함께 살펴보세요. 책임 저울과 판관 일기에서는 자신의 생각을 근거와 함께 표현하도록 도와주세요.</p><p>사건의 해설과 교사용 정답은 교사용 검수실에서 비밀번호를 입력한 뒤 확인할 수 있습니다.</p><p class="muted">로그인이나 개인정보 입력 없이 사용하며, 진행 상황과 판관 일기는 이 브라우저에 저장됩니다. 화마다 진행 기록은 별개입니다.</p>`
   };
 })();

diff --git a/episodes/ep07.js b/episodes/ep07.js
@@ -351,6 +351,6 @@ window.CASE = (() => {
       text: '구휼미를 실은 수레가 여덟 고을로 되돌아갔습니다.<br>바람이는 가장 빠른 파발마를 타고, 그 소식을 고을마다 전했습니다.',
       badges: ['속력 계산가', '목격담 감정사', '모순 사냥꾼']
     },
-    guide: `<h3>제7화 · 교사·보호자 안내</h3><p><b>홍길동전 × 속력 × 한 사람이 할 수 있었나</b><br>초등 5학년부터, 약 35–45분을 예상한 이야기입니다. 홍길동전에는 길동이 짚으로 만든 분신과 함께 팔도에 한꺼번에 나타나는 장면이 있습니다. 이 게임은 그 장면을 “한날한시에 여러 곳에 나타난 길동”이라는 수수께끼로 가져와, 도술이 아니라 거리와 시간으로 따져 봅니다. 박 서방, 이 포교, 마 객주, 바람이는 이 게임을 위해 만든 인물입니다. 원작의 길동은 탐관오리의 재물을 빼앗는 의적이지만, 이 게임의 길동은 이름을 도둑맞아 누명을 쓴 사람입니다. 도둑질을 옳은 일로 그리지 않습니다.</p><p><b>함께 생각할 질문</b></p><ol><li>속력은 어떻게 구할까요? 한 시간에 90리를 가려면 얼마나 빨라야 할까요?</li><li>박 서방은 왜 얼굴도 못 보고 길동이라고 했을까요?</li><li>“도술이다” 하고 말해 버리면 무엇이 문제일까요?</li></ol><details class="teacher-spoilers"><summary>교사용 진행·정답 보기</summary><p>박 서방: 증언 2와 4를 맞대기 (복면과 얼굴). 증언 4에 버들골 곳간 기록을 내밀어도 됩니다.<br>길 셈: 180리, 2시간, 한 시간에 90리.<br>이 포교: 증언 3 또는 4 + 속력 계산 기록이나 파발 기록.<br>세 고을의 목격담: 버들골과 강나루가 같은 때. 서로 다른 것은 키, 횃불을 든 손, 목소리.<br>마 객주 첫 심문: 증언 3 또는 4 + 들어온 보고.<br>마 객주 마지막 심문: 증언 1, 2, 3 가운데 하나 + 창고에서 나온 것.<br>진짜 까닭: 네 번째 보기.<br>심문에서 꼭 쓰이지는 않는 증거: 길 지도, 뱃사공의 말 (퍼즐의 재료이거나 다른 증언을 뒷받침합니다).</p></details><p><b>수학·과학 표현의 범위</b><br>속력 = 이동 거리 ÷ 걸린 시간을 다루고, 속력을 견주어 “갈 수 있는 길인가”를 판단합니다. 단위는 옛 단위 “리”와 “시간”을 썼습니다 (1리는 약 400미터, 한 시간에 10리는 시속 약 4킬로미터). 말의 속력과 고을 사이의 거리는 나눗셈이 쉽도록 꾸민 수입니다. 시각은 아이들이 알기 쉽게 “밤 8시 종”처럼 적었습니다.</p><p class="muted">로그인 없이 사용하며 진행과 일기는 브라우저 안에만 저장됩니다. 화마다 진행 기록은 별개입니다.</p>`
+    guide: `<h3>제7화 · 교사·보호자 안내</h3><p>증언과 증거를 비교하며 사건을 해결하는 어린이 법정 추리 게임입니다.</p><p>아이가 답을 고른 까닭을 묻고, 서로 다른 증거가 같은 결론을 가리키는지 함께 살펴보세요. 책임 저울과 판관 일기에서는 자신의 생각을 근거와 함께 표현하도록 도와주세요.</p><p>사건의 해설과 교사용 정답은 교사용 검수실에서 비밀번호를 입력한 뒤 확인할 수 있습니다.</p><p class="muted">로그인이나 개인정보 입력 없이 사용하며, 진행 상황과 판관 일기는 이 브라우저에 저장됩니다. 화마다 진행 기록은 별개입니다.</p>`
   };
 })();

diff --git a/episodes/ep04.js b/episodes/ep04.js
@@ -377,6 +377,6 @@ window.CASE = (() => {
       text: '되찾은 가루약으로 달인 약을 마신 용왕은 기침이 멎었습니다.<br>토끼는 자라의 등에 올라, 흔들리지 않게 뭍으로 돌아갔습니다.',
       badges: ['저울 수사관', '진하기 감정사', '모순 사냥꾼']
     },
-    guide: `<h3>제4화 · 교사·보호자 안내</h3><p><b>토끼전 × 용해와 용액 × 볼 수 있었는지 따지기</b><br>초등 5학년부터, 약 35–45분을 예상한 이야기입니다. 토끼전의 토끼, 별주부 자라, 용왕을 바탕으로 새로 꾸민 사건입니다. 문어 의원과 뽁이는 이 게임을 위해 만든 인물입니다. 원작의 “토끼의 간” 이야기는 다루지 않고, 토끼가 손님으로 용궁에 온 것으로 바꾸었습니다. 이 사건에는 훔친 사람이 없습니다. 실수와 섣부른 짐작이 겹쳐 누명이 생깁니다.</p><p><b>함께 생각할 질문</b></p><ol><li>가루약이 물에 녹은 뒤에도 무게가 그대로인 까닭은 무엇일까요?</li><li>자라는 왜 보지 않은 것을 보았다고 말했을까요?</li><li>문어 의원의 실수와, 일부러 한 잘못은 어떻게 다를까요?</li></ol><details class="teacher-spoilers"><summary>교사용 진행·정답 보기</summary><p>별주부 첫 심문: 증언 2와 3을 맞대기. 또는 증언 3 + 약방 문 기록.<br>세 사발의 무게: 둘째 사발, 조개 추 3개.<br>문어 의원 첫 심문: 증언 3 + 저울 기록.<br>구슬이 뜨는 높이: ㄴ → ㄷ → ㄱ 순서, 둘째 사발은 세 숟갈 녹인 물과 같음.<br>별주부 두 번째 심문: 증언 3 또는 4 + 탁자 관찰 그림.<br>문어 의원 마지막 심문: 증언 3과 5를 맞대기. 또는 증언 3 + 탁자 관찰 그림.<br>진짜 까닭: 네 번째 보기.<br>쓰이지 않는 증거: 수문 장부.</p></details><p><b>과학 표현의 범위</b><br>물질이 물에 녹아도 없어지지 않는다는 것(녹기 전과 후의 무게가 같음), 용액의 진하기를 물체가 뜨는 정도로 견주는 방법, 물을 증발시켜 녹아 있던 물질을 되찾는 방법을 다룹니다. 이야기 속 수치(물 추 10개에 가루약 추 3개)는 계산하기 쉽게 꾸민 것입니다. 실제 실험에서는 설탕이나 소금, 방울토마토나 메추리알을 씁니다. 약이나 모르는 가루를 맛보거나 섞지 않도록 지도해 주세요.</p><p class="muted">로그인 없이 사용하며 진행과 일기는 브라우저 안에만 저장됩니다. 화마다 진행 기록은 별개입니다.</p>`
+    guide: `<h3>제4화 · 교사·보호자 안내</h3><p>증언과 증거를 비교하며 사건을 해결하는 어린이 법정 추리 게임입니다.</p><p>아이가 답을 고른 까닭을 묻고, 서로 다른 증거가 같은 결론을 가리키는지 함께 살펴보세요. 책임 저울과 판관 일기에서는 자신의 생각을 근거와 함께 표현하도록 도와주세요.</p><p>사건의 해설과 교사용 정답은 교사용 검수실에서 비밀번호를 입력한 뒤 확인할 수 있습니다.</p><p class="muted">로그인이나 개인정보 입력 없이 사용하며, 진행 상황과 판관 일기는 이 브라우저에 저장됩니다. 화마다 진행 기록은 별개입니다.</p>`
   };
 })();

diff --git a/episodes/ep02.js b/episodes/ep02.js
@@ -283,6 +283,6 @@ window.CASE = (() => {
       text: '놀부는 흥부에게 사과했습니다.<br>형제는 달래의 일지를 펼치고, 새 씨앗을 함께 돌보기 시작했습니다.',
       badges: ['씨앗 계산가', '공정한 실험가', '증거 탐정']
     },
-    guide: `<h3>제2화 · 교사·보호자 안내</h3><p><b>흥부전 × 식물의 한살이 × 증거로 판단하기</b><br>초등 3–4학년부터, 약 20–30분을 예상한 이야기입니다. 읽기와 토론 시간에 따라 달라집니다. 흥부전의 흥부와 놀부를 바탕으로 새로 꾸민 사건입니다. 나바름은 시리즈의 주인공이고, 달래는 이 마을에서 씨앗을 관찰하며 수사를 돕는 아이입니다. 놀부네 일꾼 돌쇠와 고을 원님도 이 게임을 위해 만든 인물입니다. 한저울 판사는 결말에서 오늘날의 시선으로 증거를 돌아봅니다.</p><p><b>함께 생각할 질문</b></p><ol><li>식물이 잘 자라지 않았다는 이유만으로 씨앗을 준 사람을 탓해도 될까요?</li><li>물의 영향을 알아보려면 온도도 바꾸어야 할까요?</li><li>남의 지시를 따른 돌쇠는 거짓말한 책임도 없을까요?</li></ol><details class="teacher-spoilers"><summary>교사용 진행·정답 보기</summary><p>놀부 첫 심문: 증언 3 + 나눔 기록 → 20 − 12 = 8알.<br>돌쇠: 증언 2 + 항아리 그림 → 물속 씨앗.<br>물 비교: A·B / 온도 비교: A·C.<br>놀부 마지막 심문: 증언 3 + 관찰 일지.<br>사실 구분: 사실·더 확인할 생각·사실·더 확인할 생각.</p></details><p><b>과학 표현의 범위</b><br>싹트기에 필요한 물, 산소, 알맞은 온도를 다룹니다. 물에 오래 잠기면 산소를 얻기 어려울 수 있지만, 항아리 그림만으로 모든 원인을 확정하지 않습니다. 그릇별 수치는 이야기 속 관찰 자료이며 실제 발아율이나 기간을 보장하지 않습니다. 종에 따라 싹틀 때 빛 조건도 다릅니다.</p><p class="muted">과학 내용 참고: <a href="https://content.ces.ncsu.edu/extension-gardener-handbook/13-propagation" target="_blank" rel="noopener">NC State Extension · 씨앗 번식</a>, <a href="https://open.lib.umn.edu/horticulture/chapter/9-2-seed-physiology/" target="_blank" rel="noopener">University of Minnesota · 씨앗의 생리</a>.</p><p class="muted">로그인 없이 사용하며 진행과 일기는 브라우저 안에만 저장됩니다. 1화와 2화의 진행 기록은 별개입니다.</p>`
+    guide: `<h3>제2화 · 교사·보호자 안내</h3><p>증언과 증거를 비교하며 사건을 해결하는 어린이 법정 추리 게임입니다.</p><p>아이가 답을 고른 까닭을 묻고, 서로 다른 증거가 같은 결론을 가리키는지 함께 살펴보세요. 책임 저울과 판관 일기에서는 자신의 생각을 근거와 함께 표현하도록 도와주세요.</p><p>사건의 해설과 교사용 정답은 교사용 검수실에서 비밀번호를 입력한 뒤 확인할 수 있습니다.</p><p class="muted">로그인이나 개인정보 입력 없이 사용하며, 진행 상황과 판관 일기는 이 브라우저에 저장됩니다. 화마다 진행 기록은 별개입니다.</p>`
   };
 })();
